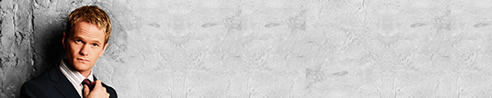
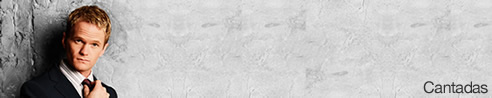
aew

Changed region(s): [[0.8537, 0.8265, 1.0, 0.9796]]

diff --git a/public/css/application.css b/public/css/application.css
@@ -261,6 +261,7 @@ td.r{background-image: url(../img/chaves/r.gif);}
 	.carousel .wrapper{position: relative;}
 	.carousel ul{position: relative; width: 168px; padding: 0; margin: 0; float: left; background: none;}
 
-a.ad{text-decoration: none;}
+a.ad{text-decoration: none; display: block; height: 98px;}
 .ad p{font-family: sans-serif; position: absolute; width: 340px; color: #fff; font-size: 18px; text-shadow: #333 1px 1px; margin: 15px 0 0 280px; text-align: left;}
 .ad p.num1{color: #333; text-shadow: #FFF 1px 1px;}
+.ad img{border:1px solid #CCC;}
